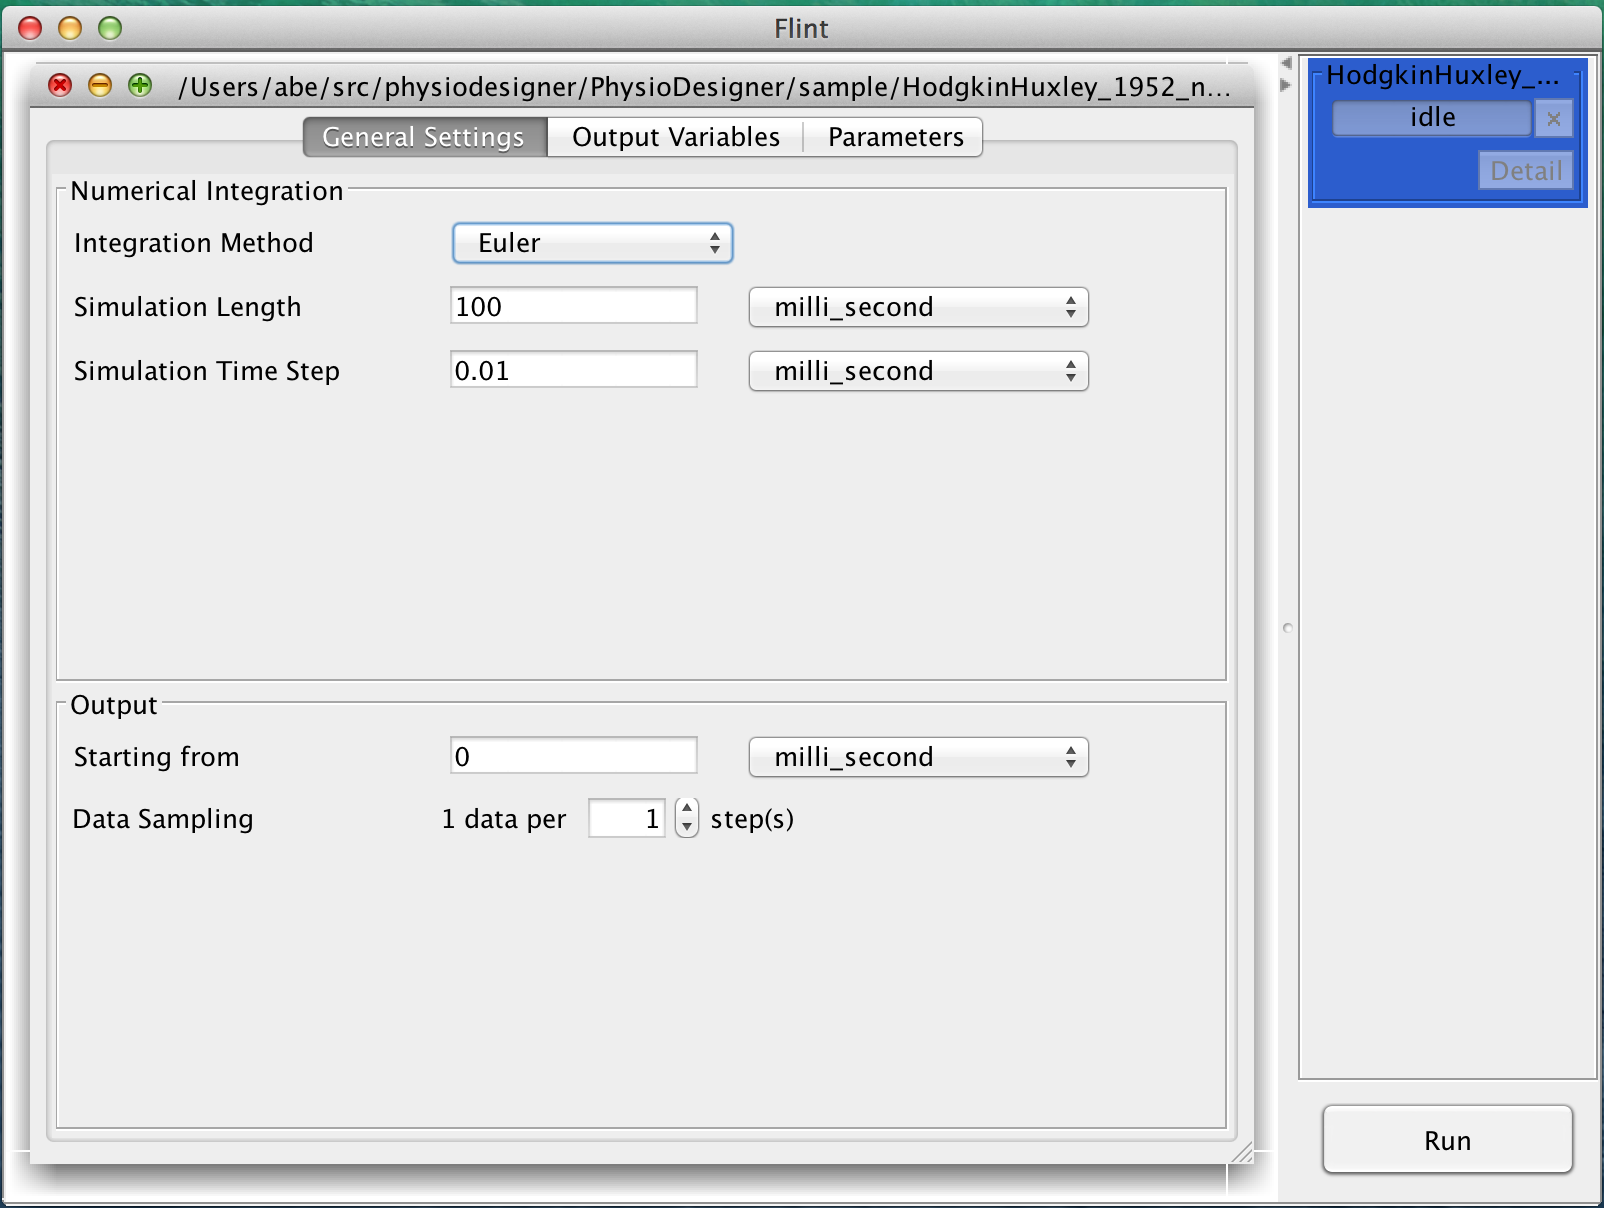
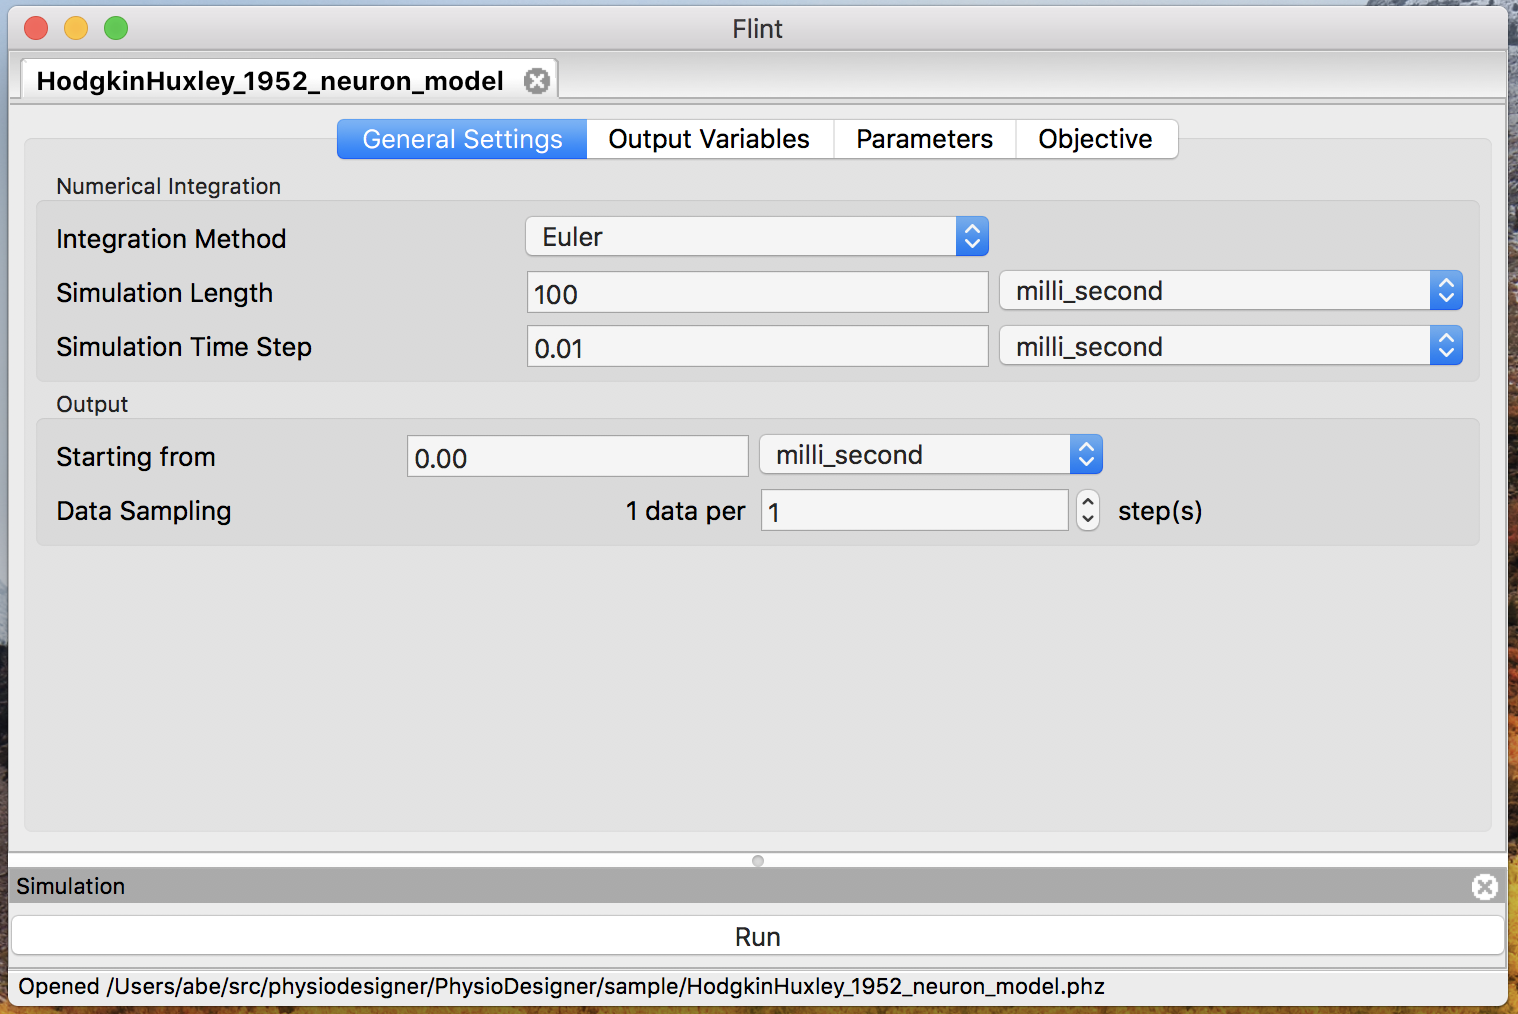
Revise documentation with latest screenshots

diff --git a/doc/flint-user-guide.tex b/doc/flint-user-guide.tex
@@ -1,6 +1,11 @@
 % -*- mode: latex; fill-column: 80; -*-
 \documentclass[a4paper,10pt]{report}
 
+\hoffset=-0.75in
+\voffset=-1in
+\textwidth=450pt
+\textheight=720pt
+
 \usepackage{hyperref}
 \hypersetup{
   colorlinks,
@@ -21,7 +26,7 @@
 
 \newcommand\FigureOfImage[2]{\begin{figure}[h]
   \centering
-  \includegraphics[width=0.6\textwidth]{#1}
+  \includegraphics[width=0.8\textwidth]{#1}
   \caption{#2}\label{fig:#1}
 \end{figure}}
 
@@ -68,7 +73,8 @@ Likewise, Flint can handle CellML and SBML as well as SBML-PHML hybrid models.
 \begin{itemize}
 \item Euler method
 \item Runge-Kutta 4th-order method
-\item Adaptive stepsize Runge-Kutta method, based on the ARKode solver of SUNDIALS \cite{hindmarsh2005sundials}
+\item Adaptive stepsize Runge-Kutta method, based on the ARKode solver of
+  SUNDIALS \cite{hindmarsh2005sundials}
 \end{itemize}
 
 \section{Notation}
@@ -92,20 +98,22 @@ process.
 
 \section{Try your first simulation with \Flint}
 This section describes a simple procedure with \Flint\ to run a simulation of an
-example model ``HodgkinHuxley\_1952\_neuron\_model.phml'', which is distributed
+example model ``HodgkinHuxley\_1952\_neuron\_model.phz'', which is distributed
 as part of the PhysioDesigner \cite{PhysioDesigner} installation.
 
 \begin{description}
 \item[Launch Flint] \hfill \\
 To launch Flint, double-click flint.exe on Windows, or Flint.app on macOS.
+It shows a window like Fig.~\ref{fig:initial}.
 \FigureOfImage{initial}{The initial window of Flint.}
 
 \item[Open a model] \hfill \\
 In the ``File'' menu, select ``Open'' to choose a model file. Then you will see
 a file dialog like Fig.~\ref{fig:open-model}.
 \FigureOfImage{open-model}{The file dialog to open a model.}
-Select ``HodgkinHuxley\_1952\_neuron\_model.phml'' in the file dialog, and
-click ``Open'' button. Then the model window will appear like Fig.~\ref{fig:hh}.
+Select ``HodgkinHuxley\_1952\_neuron\_model.phz'' in the file dialog, and
+click ``Open'' button.
+Then the model window will appear as in Fig.~\ref{fig:hh}.
 \FigureOfImage{hh}{The model window.}
 
 \item[Choose duration and time step] \hfill \\
@@ -116,36 +124,32 @@ length of the simulation in ``Simulation Time Step'' optionally.
 Click the ``Run'' button to start a simulation.
 
 Once simulation started running, the progress bar will appear in the control
-panel in the right side like Fig.~\ref{fig:hh-progress}, and both ``Cancel''
-(with the cross mark) and ``Detail'' buttons will be enabled.
+panel in the right side like Fig.~\ref{fig:hh-progress}, and both the cross mark
+(as ``Cancel'') and ``Detail'' buttons will be enabled.
 \FigureOfImage{hh-progress}{The progress bar for the model.}
 
-Wait until a message dialog shows up to tell that the simulation completed.
-\FigureOfImage{hh-completed}{The message dialog says the simulation completed.}
+Wait until the status bar tells that the simulation completed (see
+Fig.~\ref{fig:hh-compeleted}).
+\FigureOfImage{hh-completed}{The status bar indicates the simulation completed.}
 
 \item[See detail of the simulation] \hfill \\
 Click the ``Detail'' button to get the simultion result.
-Then a detail window will appear like Fig.~\ref{fig:hh-detail}.
+Then a detail window will appear as in Fig.~\ref{fig:hh-detail}.
 \FigureOfImage{hh-detail}{The detail window.}
 
 \item[Select ordinates] \hfill \\
 Click the ``View'' button on the detail window, then a plot window to render
 line graphs about the simulation result, like Fig.~\ref{fig:hh-plot}.
 \FigureOfImage{hh-plot}{The plot window.}
-Drag a name card ``V'' from the variable list, and drop it into the right axis
-field labelled Y1. Soon the corresponding line graph will appear on the canvas,
+Check the Y1 column of ``V'' in the variable list, which calls gnuplot.
+Soon the corresponding line graph will appear on a separate window,
 like Fig.~\ref{fig:hh-plot-v}.
 \FigureOfImage{hh-plot-v}{The plot window with ``V'' on Y1.}
-At the same time you can also pick up another name ``I\_Na'' from the list,
-moving it into the left axis field labelled Y2, like
+Moreover you can also check the Y2 column of another variable ``I\_Na'' in the
+list to arrange two line graphs in the same canvas, as in
 Fig.~\ref{fig:hh-plot-v-ina}.
 \FigureOfImage{hh-plot-v-ina}{The plot window with ``V'' on Y1 and ``I\_Na''
 on Y2.}
-
-\item[Plot a line graph with gnuplot] \hfill \\
-Push button ``Plot'' to draw the line graph about ``V'' and ``I\_Na'' with
-gnuplot. Soon a gnuplot window will pop up like Fig.~\ref{fig:hh-gnuplot}.
-\FigureOfImage{hh-gnuplot}{Line graph by gnuplot about ``V'' and ``I\_Na''.}
 \end{description}
 
 
@@ -169,7 +173,7 @@ Loading a model can fail due to some reasons; for example, it may fail if
 the model file contains an error or unsupported elements.
 An error dialog will display a diagnosis message when loading a model fails.
 Once loading a model successfully, the model window shows up and stays
-in the main window until closed.
+in the main window until closed, like Fig.~\ref{fig:lr}.
 
 \section{Configuring simulation tasks}
 \FigureOfImage{lr}{The model window.}
@@ -197,10 +201,13 @@ This setting is for determining how often the result data are written in.
 Note that the sampling rate does not affect the calculation for simulation.
 
 \subsection{Select output variables}
-Before starting simulations for a loaded model, users may want to choose limited
-number of variables for output among available variables. Filtering output
-variables will reduce the burden of writing output, and thus may improve the
-simulation performance.
+Before starting simulations for a loaded model, users may want to choose a
+limited number of variables for output among available variables.
+Filtering output variables will reduce the burden of writing output, and thus
+may improve the simulation performance.
+The ``Output Variables'' panel (Fig.~\ref{fig:lr-output-variables}) allows
+user to select output variables by matching its properties, such as name,
+with a given string.
 \FigureOfImage{lr-output-variables}{The ``Output Variables'' panel.}
 
 \subsection{Parametrize constant values}
@@ -211,7 +218,7 @@ different values of parameters.
 A parameter is bound to a set of possible values, called value-set.
 The whole set of possible tuples of multiple parameters is defined as a
 cartesian product of multiple value-sets.
-If users define value-sets and use them, then Flint will run as many jobs
+If users edit parameter sets and use them, then Flint will run as many jobs
 for the model as cardinality of the cartesian product. In other words,
 each simulation job corresponds to a value tuple for multiple parameters.
 
@@ -226,38 +233,44 @@ element in the model; the ``Expression'' field of the row accepts a formula
 \begin{figure}[h]
   \centering
   \begin{subfigure}[b]{0.45\textwidth}
-    \includegraphics[width=\textwidth]{lr-value-set-a}
-    \caption{{\tt a} of type enum}\label{fig:lr-value-set-a}
+    \includegraphics[width=\textwidth]{lr-edit-parameter-set-a}
+    \caption{{\tt a} edit a parameter set calld ``p0''}\label{fig:lr-edit-parameter-set-a}
   \end{subfigure}
   \begin{subfigure}[b]{0.45\textwidth}
-    \includegraphics[width=\textwidth]{lr-value-set-b}
-    \caption{{\tt b} of type interval}\label{fig:lr-value-set-b}
+    \includegraphics[width=\textwidth]{lr-edit-parameter-set-b}
+    \caption{{\tt b} choosing value type}\label{fig:lr-edit-parameter-set-b}
   \end{subfigure}
-  \caption{Editing value-sets in the ``Define value set'' window.}\label{fig:lr-value-set}
+  \caption{Editing parameter sets in the ``Define parameter set'' window.}
 \end{figure}
 
 \subsubsection{Define a value-set}
 In order to define or modify value-sets, push button ``Define value set'' at
 first. Then a window will pop up. It allows users to define new value-set,
-see existing value-sets, and modify them.
+see existing value-sets, and modify them (see Fig.~\ref{fig:lr-edit-parameter-set-a}).
 
-There are two types of value-sets: enum and interval. For a value-set of type
-enum, each of possible values must be specified. On the other hand, only the
-lower and upper (both inclusive) of a range of values with a step are required
-to define a value-set of type interval.
+There are four types of value-sets: enum, interval, Gaussian, and uniform
+(see Fig.~\ref{fig:lr-edit-parameter-set-b}).
+For a value-set of type enum, each of possible values must be specified.
+On the other hand, only the lower and upper (both inclusive) of a range
+of values with a step are required to define a value-set of type interval.
 Note that possible values of an enum should be separated by a comma.
+The latter two types of value-sets are for generating (pseudo)random values
+according to specified probability distribution in simulation time.
 
 \subsubsection{Use value-sets}
 Once users have defined a value-set, it is available in the ``Expression''
 field of any row in the ``Parameters'' table. For example, users can specify
 {\tt a+2*b} in the field if there exists a couple of value-set named {\tt a} and
-{\tt b}.
+{\tt b} (see Fig.~\ref{fig:lr-parameter-set}).
+\FigureOfImage{lr-parameter-set}{Parameterize with defined value-set ``p0''.}
 
 \section{Starting simulation}
 To start simulation, use the menu ``Control''$\rightarrow$``Run'' or button
 ``Run'' on the control panel. It kicks simulation jobs for all loaded models.
 Users can monitor the progress in total on the control panel, as well as the
 one for a single job on the detail windows like Fig.~\ref{fig:lr-detail}.
+Note that a context menu allows users to cancel simulation assigned to a
+specific parameter value in a task.
 \FigureOfImage{lr-detail}{The detail window during simulation.}
 
 \section{Controlling simulation jobs}
@@ -265,10 +278,9 @@ After starting simulation jobs, users can control them instead of just waiting
 for them finishing.
 
 \subsection{Cancel jobs}
-There are two ways to cancel running jobs; one is pushing the cross mark on
-the control panel (see Fig.~\ref{fig:lr-progress}), which cancels all of related
-jobs. The other is pushing the cross mark at the detail window, which cancels the
-corresponding job only.
+There is another way to cancel running jobs; pushing the cross mark on the
+control panel (see Fig.~\ref{fig:lr-progress}), which cancels a job i.e. all
+of its tasks together.
 \FigureOfImage{lr-progress}{The progress bar / cross mark / ``Detail'' button on
  the control panel.}
 
@@ -289,54 +301,23 @@ From the detail window, users can display the plot window by clicking button
 
 \subsection{Choose abscissa and ordinates}
 In order to draw a line graph, users have to specify the abscissa and ordinates
-by drag-and-dropping variables from the left side frame.
-\FigureOfImage{lr-plot}{Selecting {\tt V} as a Y1 ordinate.}
-
-If there are so many variables that some of them scroll out on a frame, a scroll
-bar appears on the left edge of the frame. Besides scrolling them by wheeling
-with mouse, especially on the left side frame, the focus can jump to a variable
-by typing an alphabet key (i.e., \texttt{[A-z]}) which specifies the first
-character of the variable's name.
-
-\subsection{Configuration for gnuplot}
-Pushing the ``Plot'' button calls gnuplot to draw a line graph with the
-specified abscissa and ordinates. Users have to install gnuplot in advance, and
-to specify the location of the gnuplot executable (see
-section~\ref{sec:preference}).
-
-\subsubsection{Options for gnuplot}
-Users can control the following options for gnuplot in Tab ``Range'' or ``Legend'':
-\begin{itemize}
-\item Minimum and/or maximum value(s) for the abscissa ($X$) and/or ordinates ($Y1$/$Y2$)
-\item Labels for the abscissa ($X$) and/or ordinates ($Y1$/$Y2$)
-\item With or without the title
-\end{itemize}
-These will be enabled on next time plotting.
-\FigureOfImage{lr-plot-target}{The ``Target'' tab.}
-\FigureOfImage{lr-plot-range}{The ``Range'' tab.}
-\FigureOfImage{lr-plot-legend}{The ``Legend'' tab.}
-\FigureOfImage{lr-gnuplot}{The line graph generated by gnuplot.}
-
-\subsubsection{Writing the line graph to a file}
-It is possible to make gnuplot write the line graph to some file, as follows:
-\begin{itemize}
-\item choose Tab ``Target''.
-\item check the ``file'' button.
-\item select a file format and path to be written.
-\item push button ``Plot''.
-\end{itemize}
-Then a dialog will inform users of the resulting status.
+by checking an X column as well as either Y1 or Y2 column.
+Immediately after choosing abscissa and ordinates, Flint calls gnuplot in the
+background to draw a line graph.
+Thus users have to install gnuplot in advance, and to specify the location of
+the gnuplot executable (see section~\ref{sec:preference}).
 
 \subsubsection{Trouble shooting}
 \begin{itemize}
-\item Pushing button ``Plot'' with no response, check the gnuplot initialization
-  file to load. It is called $\tt{.gnuplot}$ on Unix and macOS, and
-  $\tt{GNUPLOT.INI}$ on other systems.
+\item Choosing abscissa and ordinates results in no response, make sure if the
+  gnuplot initialization file is valid and correct.
+  It is called $\tt{.gnuplot}$ on Unix and macOS, and $\tt{GNUPLOT.INI}$ on
+  other systems.
 \end{itemize}
 
 \section{Saving output data}
 Users may save the resulting simulation data for later investigation.
-\FigureOfImage{lr-detail-buttons}{Buttons to export data in the detail window.}
+\FigureOfImage{lr-export}{The dialog to save data.}
 
 \subsection{Exporing data as CSV}
 Flint can export the result data into a CSV file.
@@ -345,9 +326,11 @@ The header column contains the variable names as well as their unit name if any.
 The procedure is as follows:
 \begin{enumerate}
 \item Open the ``Detail'' window
-\item Push button ``Export'' (see Fig.~\ref{fig:lr-detail-buttons})
-\item Choose a target filename \emph{ending with .csv or .txt} in the file dialog.
+\item Select as many tasks as you would like to save.
+\item Push button ``Export''
+\item Choose a target directory in the file dialog (see Fig.~\ref{fig:lr-export})
 \end{enumerate}
+The names of files saved in the target directory are of form ``(ID).csv.''
 
 \subsection{Exporting data as ISD}
 Flint can also export the result data into a ISD file.
@@ -356,36 +339,11 @@ The ISD file format is a binary file format for preserving multi-variate data.
 The procedure is as follows:
 \begin{enumerate}
 \item Open the ``Detail'' window
-\item Push button ``Export'' (see Fig.~\ref{fig:lr-detail-buttons})
-\item Choose a target filename \emph{which extension is neither .csv nor .txt}
-  in the file dialog.
+\item Select as many tasks as you would like to save.
+\item Push button ``Export''
+\item Choose a target directory in the file dialog (see Fig.~\ref{fig:lr-export})
 \end{enumerate}
-
-\subsection{Exporting all data into a directory}
-It is sometimes useful to export all data for simulation jobs into a directory.
-The procedure is as follows:
-\begin{enumerate}
-\item Open the ``Detail'' window
-\item Push button ``Export all'' (see Fig.~\ref{fig:lr-detail})
-\item Choose a target directory in the file dialog.
-\end{enumerate}
-
-\section{Flint K3}
-Instead of runnsing simulation with Flint, it is also possible to submit a loaded
-model to Flint K3 (\url{https://flintk3.unit.oist.jp/}) for simulation.
-A K3 account is necessary to use this advanced feature.
-
-\subsection{From menu}
-To submit a model to Flint K3,
-\begin{enumerate}
-\item Load a model
-\item Select the menu ``Control''$\rightarrow$``Send to Flint K3''
-\item Enter the User ID and Password of a K3 account and the title of new job
-  (see Fig.~\ref{fig:new-job-to-k3})
-\item Push button ``Submit''
-\end{enumerate}
-\FigureOfImage{new-job-to-k3}{The ``New job to K3'' dialog.}
-Then a dialog will appear to tell whether it is done successfully or not.
+The names of files saved in the target directory are of form ``(ID).isd.''
 
 \section{Exporting C source code from model}
 Not only running online simulation, but also Flint can export simulation code
@@ -395,10 +353,10 @@ as a C99 source file from a loaded model. So far it works only for pure ODE mode
 To export C code from a model,
 \begin{enumerate}
 \item Load a model
-\item Select the menu ``File''$\rightarrow$``Export''$\rightarrow$``C''
+\item Select the menu ``File''$\rightarrow$``Export to C'' (see Fig.~\ref{fig:export-to-c})
 \item Choose a target filename via the file dialog that follows.
 \end{enumerate}
-\FigureOfImage{export-to-c}{The menu ``File''$\rightarrow$``Export''$\rightarrow$``C''.}
+\FigureOfImage{export-to-c}{The menu ``File''$\rightarrow$``Export to C''.}
 Then a dialog will appear to tell whether it is done successfully or not.
 
 Please note that the numerical method used in the exported code is the one
@@ -423,14 +381,15 @@ will run a simulation, writing the whole output into {\tt output.isd}.
 
 \section{Preference}
 \label{sec:preference}
-Users can customize Flint's preference.
+Users can customize Flint's behavior via preference, which UI looks like
+Fig.~\ref{fig:preference-plotter}.
 
 \subsection{Plotter}
-This is an advanced option.
-For gnuplot, select the path of {\tt gnuplot} (or {\tt pgnuplot.exe} on Windows),
-e.g., ``$\tt{/usr/bin/gnuplot}$''. On macOS, say,
-{\tt /Applications/gnuplot.app} as an application bundle of gnuplot, its value
-should be \[{\tt /Applications/gnuplot.app/bin/gnuplot}.\]
+This is a necessary option to render line graphs.
+Select the path of {\tt gnuplot} (or {\tt gnuplot.exe} on Windows), e.g.,
+``$\tt{/usr/bin/gnuplot}$''. If macOS users have, say,
+{\tt /Applications/gnuplot.app} as an application bundle of gnuplot,
+its value should be \[{\tt /Applications/gnuplot.app/bin/gnuplot}.\]
 \FigureOfImage{preference-plotter}{The ``Plotter'' panel on the preference dialog.}
 
 \section{Shortcut keys}
@@ -509,6 +468,15 @@ The following suboptions are available:
 \item[-s {\tt file}] \hfill \\
   specify output variables with {\tt file}.
 \end{description}
+
+%%%%%%%%%%%%%%%%%%%%%%%%%%%%%%%%%%%%%%%%%%%%%%%%%%%%%%%%%%%%%%%%%%%%%%%%
+
+\chapter{Frequently Asked Questions (FAQ)}
+Please read this chapter first when in doubt.
+
+\section{How to uninstall Flint}
+On windows, you can uninstall Flint through the system menu ``Settings''$\rightarrow$``Apps \& features''.
+On macOS, all you have to do for uninstallation is to remove Flint.app.
 
 %%%%%%%%%%%%%%%%%%%%%%%%%%%%%%%%%%%%%%%%%%%%%%%%%%%%%%%%%%%%%%%%%%%%%%%%
 
